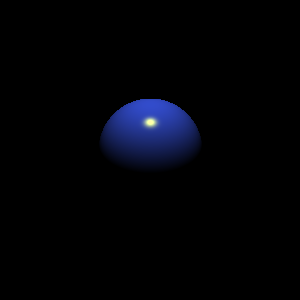
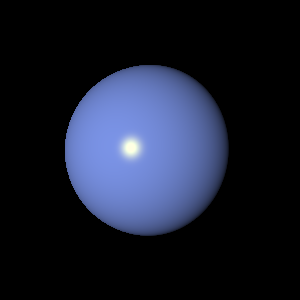
드디어 성공이요~

Changed region(s): [[0.21, 0.21, 0.78, 0.81]]

diff --git a/rayTracer/rayTracer.py b/rayTracer/rayTracer.py
@@ -30,12 +30,16 @@ class Color:
         else:
             raise NotImplementedError("Unsupported type for addition with Color.")
 
-    def gammaCorrect(self, gamma):
-        inverseGamma = 1.0 / gamma
-        return Color(*np.power(self.color, inverseGamma))
+    def gammaCorrect(self, gamma=2.2):
+        # Apply gamma correction
+        corrected = np.power(self.color, 1.0 / gamma)
+        return Color(*corrected)
 
     def toUINT8(self):
-        return (np.clip(self.color, 0, 1) * 255).astype(np.uint8)
+        # First, apply gamma correction with the default or a specified gamma value
+        corrected = self.gammaCorrect().color
+        # Then, scale to [0, 255] and convert to integers
+        return (np.clip(corrected, 0, 1) * 255).astype(np.uint8)
 
     @staticmethod
     def from_hex(hex_str):
@@ -102,31 +106,47 @@ class Material:
         self.exponent = exponent if exponent else 1  # Default exponent to 1 for safety
 
     def shade(self, ray, hit_point, normal, view_dir, light, objects, depth=0, max_depth=3):
-        color = Color(0, 0, 0)  # Initialize color
-
-        # Lambertian shading
-        if self.type == "Lambertian":
-            light_dir = light.position - hit_point
-            light_dir /= np.linalg.norm(light_dir)
-            diffuse = max(np.dot(normal, light_dir), 0) * self.diffuse_color
-            color += diffuse
+        color = Color(0, 0, 0)  # Initialize color to black
         
-        # Phong shading
-        elif self.type == "Phong":
-            light_dir = light.position - hit_point
-            light_dir /= np.linalg.norm(light_dir)
-            diffuse = max(np.dot(normal, light_dir), 0) * self.diffuse_color
-            color += diffuse
+        # Calculate the direction from the hit point to the light
+        light_dir = light.position - hit_point
+        light_distance = np.linalg.norm(light_dir)
+        light_dir /= light_distance  # Normalize light direction
 
-            # Specular component
-            reflect_dir = 2 * normal * np.dot(normal, light_dir) - light_dir
-            spec_angle = max(np.dot(view_dir, reflect_dir), 0)
-            specular = (self.specular_color * np.power(spec_angle, self.exponent)) if spec_angle > 0 else Color(0, 0, 0)
-            color += specular
+        # Offset the hit point slightly along the normal to avoid self-intersection
+        shadow_origin = hit_point + normal * 0.001  # Offset by a small amount
 
-        # Additional reflection logic here, if applicable
+        # Cast a shadow ray from the hit point to the light
+        shadow_ray = Ray(shadow_origin, light_dir)
+        shadow_hit = False
 
+        for obj in objects:
+            shadow_dist = obj.intersect(shadow_ray)
+            if shadow_dist and 0 < shadow_dist < light_distance:
+                shadow_hit = True
+                break
+
+        if not shadow_hit:
+            # Perform shading calculations here since the point is not in shadow
+            if self.type == "Lambertian":
+                diffuse_intensity = max(np.dot(normal, light_dir), 0)
+                diffuse = self.diffuse_color * diffuse_intensity
+                color += diffuse
+
+            elif self.type == "Phong":
+                diffuse_intensity = max(np.dot(normal, light_dir), 0)
+                diffuse = self.diffuse_color * diffuse_intensity
+                color += diffuse
+
+                # Calculate specular component
+                reflect_dir = 2 * normal * np.dot(normal, light_dir) - light_dir
+                spec_angle = max(np.dot(view_dir, reflect_dir), 0)
+                specular = self.specular_color * (spec_angle ** self.exponent)
+                color += specular
+
+        # Return the color with or without lighting based on shadow
         return color
+
 
 
         
@@ -135,66 +155,61 @@ class Light:
         self.position = position
         self.intensity = intensity
 
+
+
 def render(scene, camera_settings, img_size):
     img = np.zeros((img_size[1], img_size[0], 3), dtype=np.uint8)
-    
-    # Unpack camera settings
+
     eye_pos = camera_settings['view_point']
     forward = camera_settings['view_dir'] / np.linalg.norm(camera_settings['view_dir'])
     right = np.cross(forward, camera_settings['view_up'])
+    right /= np.linalg.norm(right)  # Normalize the right vector
     up = np.cross(right, forward)
+    up /= np.linalg.norm(up)  # Normalize the up vector
     aspect_ratio = img_size[0] / img_size[1]
-    fov_height = camera_settings['view_height']
-    fov_width = camera_settings['view_width']
     proj_distance = camera_settings['proj_distance']
 
-    # Iterate over each pixel in the image
+    half_height = camera_settings['view_height'] / 2.0
+    half_width = aspect_ratio * half_height
+    image_center = eye_pos + forward * proj_distance
+
     for y in range(img_size[1]):
         for x in range(img_size[0]):
-            # Default background color
-            pixel_color = Color(0, 0, 0)
+            pixel_color = Color(0, 0, 0)  # Default background color, adjust as needed
+            # Convert pixel position to normalized [-0.5, 0.5] coordinates
+            nx = (x / img_size[0]) - 0.5
+            ny = 0.5 - (y / img_size[1])
             
-            # Calculate the direction of the primary ray
-            px = (2 * (x / img_size[0]) - 1) * aspect_ratio * fov_width
-            py = (1 - 2 * (y / img_size[1])) * fov_height
-            ray_dir = forward * proj_distance + px * right + py * up
-            ray_dir /= np.linalg.norm(ray_dir)
+            # Calculate position on the image plane
+            image_plane_pos = image_center + (nx * half_width * 2 * right) + (ny * half_height * 2 * up)
             
+            # Generate ray from the camera position through the point on the image plane
+            ray_dir = image_plane_pos - eye_pos
+            ray_dir /= np.linalg.norm(ray_dir)  # Normalize direction
             ray = Ray(eye_pos, ray_dir)
+            
             closest_dist = np.inf
-            hit_obj = None
+            hit_obj = None  # Initialize hit object as None
 
-            # Find the closest intersection
             for obj in scene['objects']:
                 dist = obj.intersect(ray)
                 if dist and 0 < dist < closest_dist:
                     closest_dist = dist
                     hit_obj = obj
 
-            # If there is an intersection, calculate the color at the intersection point
-            if hit_obj is not None:
+            if hit_obj:
                 hit_point = ray.origin + ray.direction * closest_dist
                 normal = (hit_point - hit_obj.center) / np.linalg.norm(hit_point - hit_obj.center)
                 view_dir = -ray.direction
-
-                # Check for shadow
-                is_shadowed = False
-                to_light = scene['light'].position - hit_point
-                shadow_ray = Ray(hit_point + normal * 0.001, to_light / np.linalg.norm(to_light))
-                for obj in scene['objects']:
-                    if obj is not hit_obj and obj.intersect(shadow_ray):
-                        is_shadowed = True
-                        break
-
-                if not is_shadowed:
-                    pixel_color = hit_obj.material.shade(ray, hit_point, normal, view_dir, scene['light'], scene['objects'])
-                else:
-                    # Optionally handle ambient light in shadows
-                    pixel_color = Color(0.1, 0.1, 0.1)  # Dim color for shadowed areas
-
-            img[y, x] = pixel_color.toUINT8()
+                pixel_color = hit_obj.material.shade(ray, hit_point, normal, view_dir, scene['light'], scene['objects'])
+                img[y, x] = pixel_color.toUINT8()
+            else:
+                # Set background color if no hit
+                img[y, x] = np.array([0, 0, 0], dtype=np.uint8)
 
     return img
+
+
 
 def parse_shader(shader_elem):
     type = shader_elem.get('type')
@@ -218,7 +233,7 @@ def parse_camera(camera_elem):
     view_height = float(camera_elem.find('viewHeight').text)
     
     proj_distance_elem = camera_elem.find('projDistance')
-    proj_distance = float(proj_distance_elem.text) if proj_distance_elem is not None else 2.0  # Default if not provided
+    proj_distance = float(proj_distance_elem.text) if proj_distance_elem is not None else 1.0  # Default if not provided
     
 
     return {
@@ -231,24 +246,29 @@ def parse_camera(camera_elem):
         'view_height': view_height
     }
 
+def parse_light(light_elem):
+    position = np.array(list(map(float, light_elem.find('position').text.split())))
+    intensity = Color.from_decimals(light_elem.find('intensity').text)
+    return Light(position, intensity)
+
 
 def main(xml_file):
     tree = ET.parse(xml_file)
     root = tree.getroot()
     
     camera_settings = parse_camera(root.find('camera'))
-
     shaders = {shader.get('name'): parse_shader(shader) for shader in root.findall('shader')}
 
+    light = parse_light(root.find('light'))  # Parse the light element
 
     scene = {
         'objects': [],
-        'light': Light(np.array([0, 5, 0]), Color(1, 1, 1))  # Assuming a single light for simplicity
+        'light': light,  # Add the parsed light to the scene
     }
 
     for surface in root.findall('surface'):
         if surface.get('type') == 'Sphere':
-            center = np.fromstring(surface.find('center').text, sep=' ')
+            center = np.array(list(map(float, surface.find('center').text.split())))
             radius = float(surface.find('radius').text)
             shader_ref = surface.find('shader').get('ref')
             material = shaders[shader_ref]
@@ -259,6 +279,6 @@ def main(xml_file):
     Image.fromarray(img, 'RGB').save(xml_file + '.png')
 
 
+
 if __name__ == "__main__":
     main(sys.argv[1])
-
